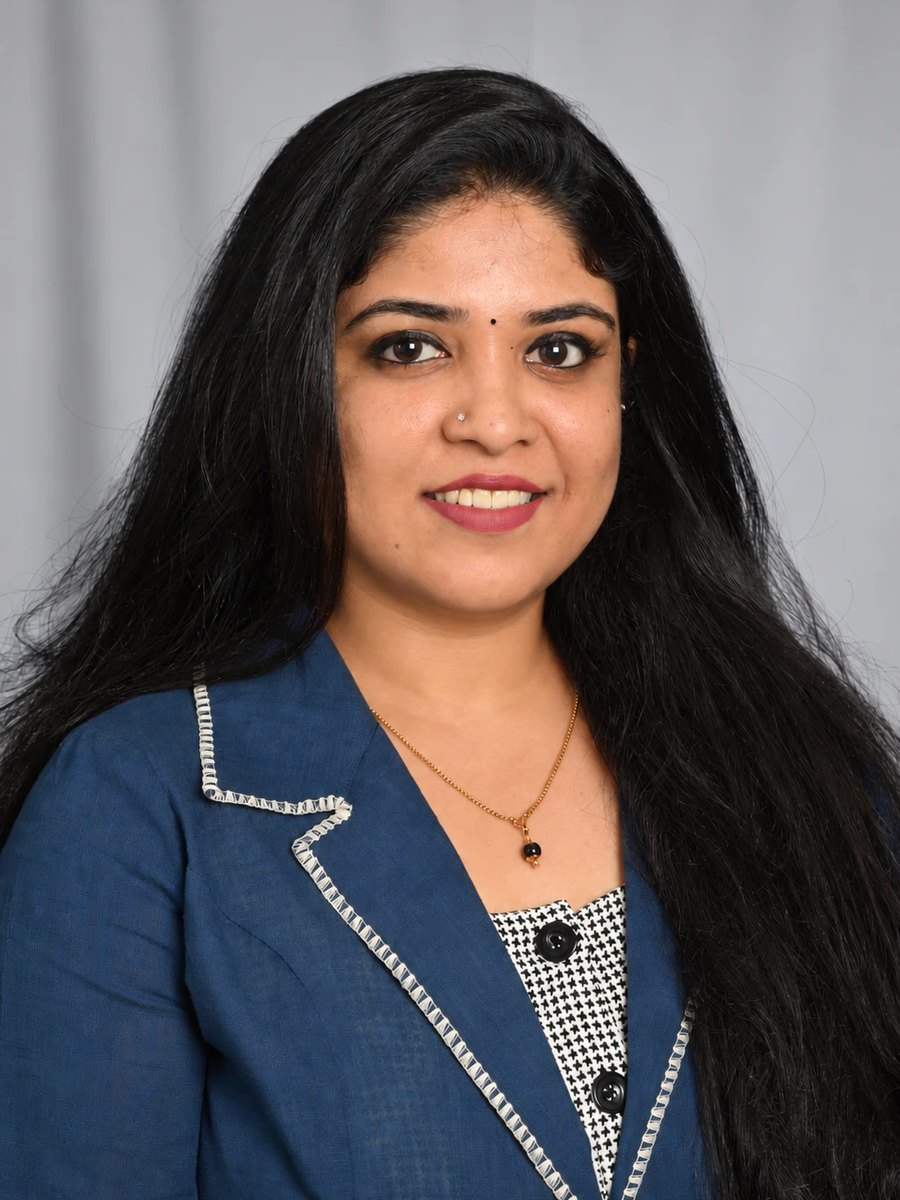
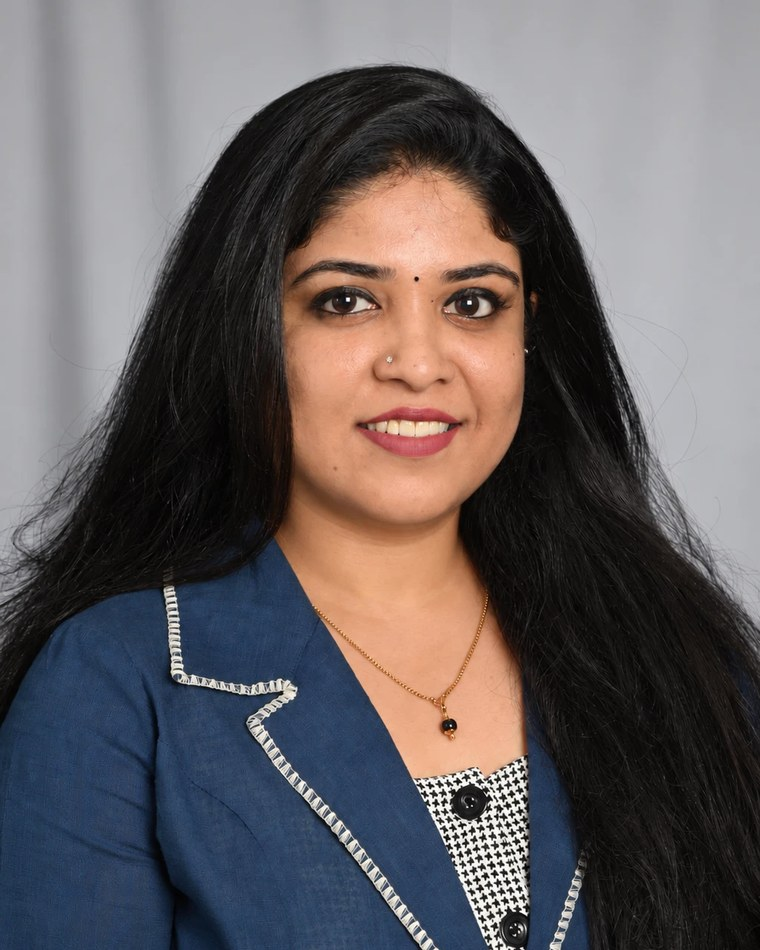
Rebuild the founder section around the photograph it actually has
Two faults. The crop was 3:4 taken tight, so the face filled the frame.
And bleeding a cold studio headshot edge to edge, full height, fought
every other band on the page — those are calm, contained, warm, and
this was none of those things.

The portrait is now a contained figure in the grid's first column:
386px at 4:5, sitting on the stone band with air around it, a hairline
instead of a shadow since the page has no shadows anywhere. Re-exported
at 4:5 from the original with the headroom protected, so more shoulder
and background shows and the face reads at a comfortable size. A light
desaturation, a touch of sepia and a warm multiply pull the studio grey
toward the cream it sits on.

Smaller file too — 69KB WebP against 85KB, from a larger visible crop.

The copy still lands on 606px, and the narrow-screen rules were
rewritten since they described an absolute layout that no longer
exists.

diff --git a/css/style.css b/css/style.css
@@ -649,38 +649,49 @@ button { font: inherit; }
    the ordinary .wrap grid, so its left edge is the same 2nd column the
    rest of the page uses. Putting the photo in the grid itself pulled
    the text 15px off that line. */
-.founder { position: relative; background: var(--stone); }
-
-.founder-photo {
-  position: absolute; inset: 0 auto 0 0;
-  width: calc(var(--pad) + (100% - 2 * var(--pad)) * 0.36 + var(--gutter) / 2);
-  overflow: hidden;
-  background: #DFDACB;
-}
-.founder-photo picture, .founder-photo img {
-  width: 100%; height: 100%;
-  object-fit: cover;
-  object-position: 50% 22%;   /* keep the face clear of the bottom crop */
-  display: block;
-}
-/* the stone band warms the photo so it belongs to the page */
-.founder-photo::after {
-  content: "";
-  position: absolute; inset: 0;
-  background:
-    linear-gradient(100deg, rgba(240, 237, 228, 0) 58%, rgba(240, 237, 228, .55) 100%);
-  pointer-events: none;
-}
+/* The portrait is a contained figure in the grid's first column, not a
+   full-bleed background. The source is a tight studio headshot on cold
+   grey — bleeding it edge to edge made the face enormous and fought the
+   warm editorial feel of every other band. */
+.founder { background: var(--stone); }
 
 .founder-grid {
-  position: relative;
   display: grid;
   grid-template-columns: var(--col) minmax(0, 1fr);
   gap: var(--gutter);
   align-items: center;
-  min-height: 520px;
+  padding-top: clamp(56px, 6.5vw, 104px);
+  padding-bottom: clamp(56px, 6.5vw, 104px);
 }
-.founder-copy { padding: clamp(52px, 6vw, 92px) 0; max-width: 680px; }
+
+.founder-photo {
+  margin: 0;
+  position: relative;
+  width: 100%; max-width: 386px;
+  aspect-ratio: 4 / 5;
+  overflow: hidden;
+  background: #DFDACB;
+  /* a hairline rather than a shadow — the page has no shadows anywhere */
+  outline: 1px solid var(--line);
+  outline-offset: 0;
+}
+.founder-photo img {
+  width: 100%; height: 100%;
+  object-fit: cover;
+  object-position: 50% 14%;
+  display: block;
+  /* pull the cold studio grey toward the cream of the page */
+  filter: saturate(.94) contrast(1.03) sepia(.07);
+}
+.founder-photo::after {
+  content: "";
+  position: absolute; inset: 0;
+  background: linear-gradient(170deg, rgba(240,237,228,.14) 0%, rgba(200,117,42,.11) 100%);
+  mix-blend-mode: multiply;
+  pointer-events: none;
+}
+
+.founder-copy { padding: 0; max-width: 680px; }
 .founder-copy .body { max-width: 56ch; }
 
 .sign { margin-top: 36px; }
@@ -1003,19 +1014,8 @@ html:not(.js) .tel-code select {
   .split, .split--wide, .split--tight { grid-template-columns: 1fr; gap: 42px; }
   .triptych { grid-template-columns: 1fr; gap: 32px; }
   .whynow, .vision { grid-template-columns: 1fr; gap: 32px; }
-  /* the portrait stops being a background and becomes the lead image */
-  .founder-photo {
-    position: static;
-    width: 100%;
-    height: clamp(320px, 62vw, 520px);
-  }
-  .founder-photo img { object-position: 50% 16%; }
-  .founder-photo::after {
-    background: linear-gradient(180deg, rgba(240,237,228,0) 72%, rgba(240,237,228,.5) 100%);
-  }
-  .founder-grid { grid-template-columns: 1fr; min-height: 0; }
-  .founder-grid > div:first-child { display: none; }
-  .founder-copy { padding: clamp(36px, 7vw, 60px) 0 clamp(44px, 8vw, 72px); }
+  .founder-grid { grid-template-columns: 1fr; gap: 36px; }
+  .founder-photo { max-width: 320px; }
   .contact-grid { grid-template-columns: 1fr; gap: 38px; }
   .foot-in { grid-template-columns: 1fr 1fr; }
   .foot-end { justify-items: start; grid-column: 1 / -1; }

diff --git a/index.html b/index.html
@@ -31,7 +31,7 @@
 <link rel="preconnect" href="https://fonts.googleapis.com">
 <link rel="preconnect" href="https://fonts.gstatic.com" crossorigin>
 <link rel="stylesheet" href="https://fonts.googleapis.com/css2?family=Newsreader:ital,opsz,wght@0,6..72,300;0,6..72,400;0,6..72,500;1,6..72,300&family=Onest:wght@300;400;500;600&display=swap">
-<link rel="stylesheet" href="css/style.css?v=5.0">
+<link rel="stylesheet" href="css/style.css?v=5.2">
 </head>
 <body>
 
@@ -435,16 +435,14 @@
 <!-- ══ The Founder ═════════════════════════════════════════════════════ -->
 <section class="band band--paper band--flush" id="founder">
   <div class="founder">
-    <div class="founder-photo">
-      <picture>
-        <source srcset="assets/images/team/founder.webp" type="image/webp">
-        <img src="assets/images/team/founder.jpg" width="900" height="1200"
-             alt="Bhuvana Selvan, founder of BVANTRIX" loading="lazy" decoding="async">
-      </picture>
-    </div>
-
     <div class="wrap founder-grid">
-      <div></div>
+      <figure class="founder-photo">
+        <picture>
+          <source srcset="assets/images/team/founder.webp" type="image/webp">
+          <img src="assets/images/team/founder.jpg" width="760" height="950"
+               alt="Bhuvana Selvan, founder of BVANTRIX" loading="lazy" decoding="async">
+        </picture>
+      </figure>
       <div class="founder-copy reveal">
       <p class="eyebrow">The Founder</p>
       <h2 class="h2">Built from a question<br>that wouldn't go away.</h2>
@@ -780,6 +778,6 @@
   </div>
 </div>
 
-<script src="js/main.js?v=5.0"></script>
+<script src="js/main.js?v=5.2"></script>
 </body>
 </html>
